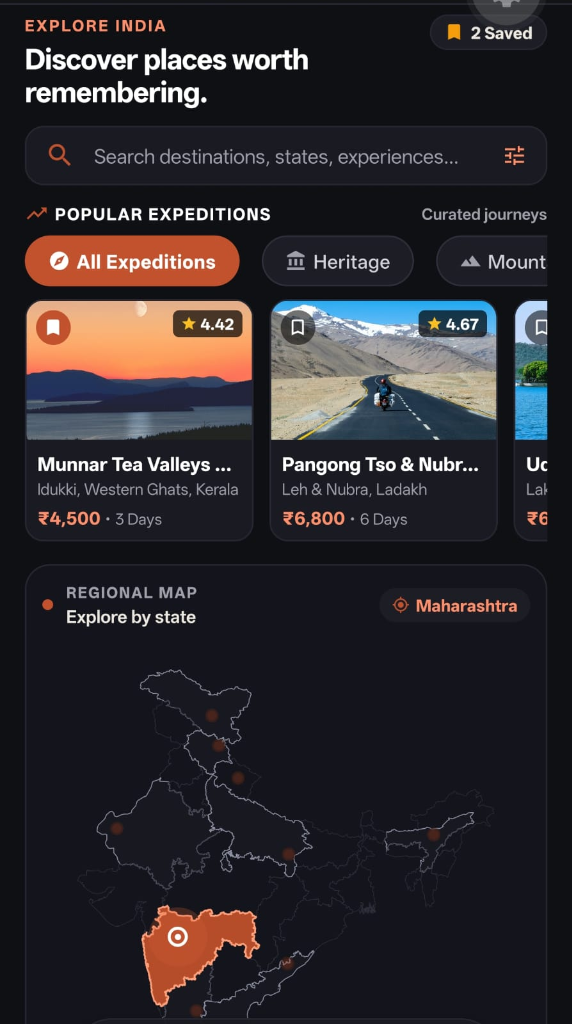
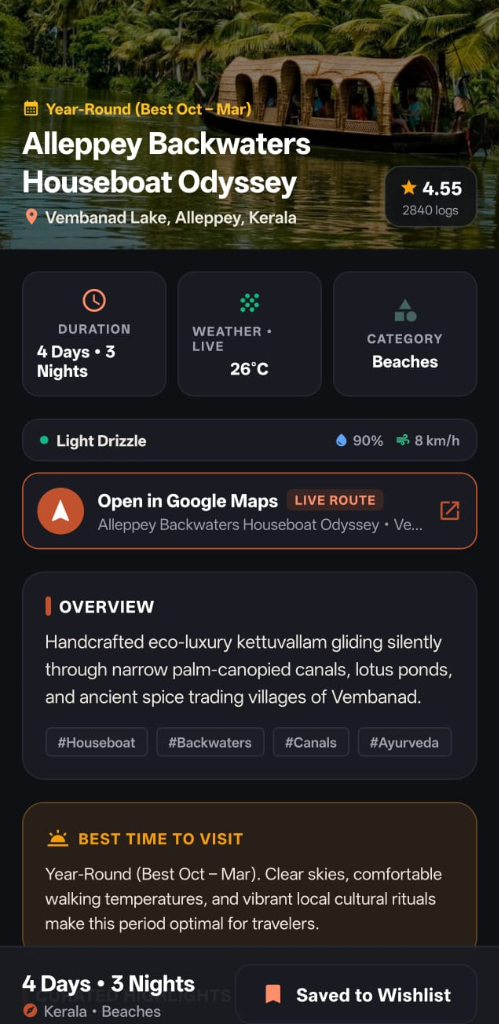
docs: update README with authentic app screenshots, setup instructions, and feature specifications

diff --git a/README.md b/README.md
@@ -1,67 +1,86 @@
 # TrailVista • India Journey Explorer
 
-> **Boutique Travel Expedition Planner & Cultural Field Journal**  
-> Built with React Native (Expo SDK 57), TypeScript, and a modern editorial design inspired by Indian heritage and geography.
+> **Curated Travel Expedition Planner & Cultural Field Journal**  
+> Built with **React Native (Expo SDK 57)**, **TypeScript**, and a contemporary dark-mode editorial aesthetic honoring the geography, heritage, and diverse cultures of India.
 
-[![Download Android APK](https://img.shields.io/badge/Download-Android%20APK%20(v1.0.1)-C2512D?style=for-the-badge&logo=android&logoColor=white)](https://github.com/undefinedtrail/trailvista-travel-explorer/releases/latest/download/TrailVista.apk)
+[![Download Android APK](https://img.shields.io/badge/Download-Android%20APK%20(v1.0.1)-E05A47?style=for-the-badge&logo=android&logoColor=white)](https://github.com/undefinedtrail/trailvista-travel-explorer/releases/latest/download/TrailVista.apk)
 [![GitHub Release](https://img.shields.io/github/v/release/undefinedtrail/trailvista-travel-explorer?style=for-the-badge&color=2EA44F)](https://github.com/undefinedtrail/trailvista-travel-explorer/releases/latest)
+[![Expo SDK 57](https://img.shields.io/badge/Expo-SDK%2057-000020?style=for-the-badge&logo=expo&logoColor=white)](https://expo.dev/)
+[![TypeScript](https://img.shields.io/badge/TypeScript-5.9-3178C6?style=for-the-badge&logo=typescript&logoColor=white)](https://www.typescriptlang.org/)
 
 ---
 
 ### 📲 Instant Standalone Installation (No Dev Server Needed!)
-You can install **TrailVista** directly onto your Android device without running any local dev servers or Expo Go:
+Install **TrailVista** directly on any Android device without configuring Node.js, Metro bundler, or Expo Go:
 - 🚀 **Direct APK Link**: [**Download TrailVista.apk (v1.0.1)**](https://github.com/undefinedtrail/trailvista-travel-explorer/releases/latest/download/TrailVista.apk)
 - 📦 **Releases Page**: [**View GitHub Releases**](https://github.com/undefinedtrail/trailvista-travel-explorer/releases/latest)
 
-> **Installation Note**: Tap the downloaded file and select **"Install"** (enable *"Install unknown apps"* in your Android browser settings if prompted).
+> **Quick Install Instructions**:
+> 1. Download `TrailVista.apk` using your phone's browser.
+> 2. Tap the downloaded file and select **"Install"** (enable *"Install unknown apps"* if prompted).
+> 3. Launch TrailVista—the full app, images, and itineraries run completely standalone and offline-ready!
 
 ---
 
 ## 🧭 Project Overview
 
-**TrailVista** is a mobile application designed for travelers who appreciate thoughtful, immersive cultural expeditions across India. Rather than presenting generic travel lists, TrailVista treats each destination as a curated journey—from cobalt glacial lakes in Ladakh (14,000 ft) to the quiet, palm-fringed backwater lagoons of Kerala, the stone monoliths of Ellora, and the Nizami citadels of Telangana.
+**TrailVista** is a modern mobile travel exploration platform crafted for travelers who seek authentic, culturally deep, and geographically rich expeditions across India. Rather than presenting generic commercial booking lists, TrailVista approaches travel as a thoughtful field journal:
 
-The application blends a contemplative dark-mode visual palette with real-world travel planning utilities: an accurate interactive regional vector SVG map, a dynamic multi-criteria travel matcher, day-by-day itineraries with full morning/afternoon/evening schedules, live weather telemetry, and seamless Google Maps routing.
+* **Geographically Grounded**: Features a custom-rendered, geographically accurate interactive vector SVG map of India spanning the high passes of Ladakh to the tranquil backwaters of Kerala and the coral reefs of the Andaman Islands.
+* **Curated Expeditions**: Covers 17 handcrafted journeys across 13 states with day-by-day schedules, morning/afternoon/evening itineraries, local etiquette notes, and authentic high-resolution photography.
+* **Intelligent Discovery**: Includes a dynamic **Smart Destination Matcher** that ranks journeys in real time according to travel style, pace, and trip duration, alongside a one-tap **"Surprise Me"** random expedition generator.
+* **Real-World Utility**: Direct one-tap **Google Maps navigation**, live **weather telemetry** (powered by Open-Meteo), and an offline-persisted **Wishlist** for seamless expedition bookmarking.
 
 ---
 
 ## 📱 Screenshots
 
-| Interactive Regional Map | Explore & Curated Expeditions |
+| 1. Explore & Interactive Map | 2. Search & "Surprise Me" |
 | :---: | :---: |
-| ![Interactive Regional Map](assets/screenshots/map_explorer.png) | ![Explore & Curated Expeditions](assets/screenshots/explore_home.png) |
+| <img src="assets/screenshots/explore.png" width="300" alt="Explore Screen" /> | <img src="assets/screenshots/search.png" width="300" alt="Search & Surprise Me" /> |
+| *Interactive Pan-India SVG Vector Map with state telemetry HUD and curated expedition feed* | *Live search with category filters, popular expeditions, and one-tap Surprise Me generator* |
 
-| Smart Search & "Surprise Me" | Expedition Dossier & Details |
+| 3. Smart Destination Matcher | 4. Saved Wishlist |
 | :---: | :---: |
-| ![Smart Search & Surprise Me](assets/screenshots/search_surprise.png) | ![Destination Details](assets/screenshots/destination_details.png) |
+| <img src="assets/screenshots/smart_matcher.png" width="300" alt="Smart Matcher" /> | <img src="assets/screenshots/wishlist.png" width="300" alt="Saved Journeys Wishlist" /> |
+| *"Find My Trip" dynamic multi-criteria engine with real-time percentage compatibility scoring* | *Offline-persisted saved journeys organized by travel category with instant removal* |
+
+<div align="center">
+
+### 5. Expedition Dossier & Navigation
+<img src="assets/screenshots/destination_details.png" width="320" alt="Destination Details Screen" />
+
+*Full destination dossier featuring live weather telemetry, direct Google Maps live routing, best season advice, and curated attractions*
+
+</div>
 
 ---
 
 ## ✨ Features
 
 ### 1. 🗺 Geographically Accurate Interactive SVG Regional Map
-* **Precise Vector SVG Map**: Pure vector state boundaries accurately representing all Indian states and union territories.
-* **13 Available Interactive Regions**: Includes Kerala, Telangana, Andhra Pradesh, Tamil Nadu, Karnataka, Maharashtra, Rajasthan, Ladakh, Himachal Pradesh, Uttar Pradesh, Assam, Uttarakhand, and the Andaman & Nicobar Islands.
-* **Interactive State Selection**: Tapping any available state fills its authentic geographic SVG boundary with an orange accent (`#E05A47`) while unavailable states remain subtle and crisp.
-* **Regional Telemetry HUD**: Selecting any region instantly surfaces seasonal weather telemetry, best visiting months, local highlights, and filters the expedition feed.
-* **Instant Reset View**: One-tap "All States" button returns to pan-India view with a smooth transition.
+* **Pure Vector SVG Map**: Handcrafted pan-India vector cartography representing state and union territory boundaries with authentic geographic fidelity.
+* **13 Interactive Regions**: Full support for Kerala, Telangana, Andhra Pradesh, Tamil Nadu, Karnataka, Maharashtra, Rajasthan, Ladakh, Himachal Pradesh, Uttar Pradesh, Assam, Uttarakhand, and Andaman & Nicobar Islands.
+* **Dynamic Highlight States**: Tapping any available region fills the state with a warm terracotta accent (`#E05A47`), while unavailable states display crisp, subtle boundary outlines.
+* **Regional Telemetry HUD**: Selecting a state surfaces its live regional weather telemetry, peak season recommendation, and automatically filters the expedition feed.
+* **Instant Reset View**: One-tap "All States" button smoothly transitions back to the complete pan-India overview.
 
 ### 2. 🎯 Smart Destination Matcher ("Find My Trip")
-* **Interactive Preferences**:
+* **Interactive Traveler Criteria**:
   * **Travel Style**: Mountains, Beach, Heritage, Adventure, Nature, Culture
   * **Travel Pace**: Relaxed (Scenic & Serene), Curated (Balanced Highlights), Immersive (Trails & Expeditions)
   * **Duration**: 1–2 days, 3–4 days, 5+ days
-* **Dynamic Ranking Engine**: Calculates multi-weighted compatibility scores (e.g., *"Munnar — 96% Match"*, *"Pangong Tso — 94% Match"*) based on category correlation, tag semantics, exploration pace alignment, duration compatibility, and user rating.
-* **Instant Navigation**: Tapping any ranked match card opens its comprehensive Details screen.
+* **Dynamic Ranking Engine**: Calculates multi-weighted compatibility scores (e.g., *"Munnar — 94% Match"*, *"Pangong Tso — 92% Match"*) based on category correlation, tag semantics, exploration pace alignment, and duration compatibility.
+* **Instant Exploration**: Tap any ranked destination card to jump straight into its complete day-by-day expedition dossier.
 
-### 3. 🎲 "Surprise Me" Itinerary Discovery
-* **One-Tap Serendipity**: In the Search tab, tap the **"Surprise Me"** button to randomly select a curated expedition across India with a smooth haptic feel.
-* **Instant Deep Linking**: Directly transitions the traveler to the full expedition dossier of the selected destination.
+### 3. 🎲 "Surprise Me" Serendipitous Trip Discovery
+* **One-Tap Serendipity**: In the Search tab, tap the prominent **"Surprise Me 🎲 Random Trip"** banner to discover an unexpected curated expedition across India.
+* **Instant Deep Linking**: Smoothly navigates the traveler straight to the selected destination dossier.
 
-### 4. 📍 Seamless Google Maps Navigation
-* **Prominent Route Card**: Placed directly below the destination's Quick Facts on the Details screen.
-* **Direct Point-to-Point Routing**: Opens destination coordinates and landmarks directly in Google Maps via React Native `Linking.openURL` without requiring heavyweight SDKs or billing keys.
-* **Attraction Directions**: Every curated sight card contains a dedicated "Maps" link for point-to-point navigation.
+### 4. 📍 Direct Google Maps Navigation
+* **Live Route Button**: Prominently displayed right under the destination's Quick Facts.
+* **Point-to-Point Routing**: Opens real geographic coordinates and landmarks in Google Maps via native `Linking.openURL`—no billing keys or heavyweight SDK overhead.
+* **Attraction Directions**: Every curated sight card contains a dedicated "Maps" link for point-to-point navigation to specific temples, fortresses, and trails.
 
 ### 5. ⛅ Live Weather Telemetry with Graceful Fallback
 * **Real-Time Data**: Queries real-world temperatures, WMO weather condition codes, relative humidity, and wind speeds via Open-Meteo.
@@ -81,36 +100,39 @@ The application blends a contemplative dark-mode visual palette with real-world 
   * **Uttarakhand**: Grade IV white-water rafting in Rishikesh Ganga Gorge.
   * **Andaman**: Radhanagar Beach white sands and turquoise waters.
 
-### 7. 🌓 Futuristic Theme Toggle & Edge-Swipe Navigation
-* **Futuristic Circular Sun/Moon Toggle**: Smooth toggle between obsidian dark theme and warm parchment light theme.
+### 7. 🌓 Modern UI & Polish
+* **Futuristic Theme Toggle**: Smooth circular sun/moon toggle to switch between obsidian dark theme and warm parchment light theme.
 * **System Edge-Swipe Back Gesture**: Native swipe-to-go-back gesture enabled throughout all screen stacks.
-* **Wishlist Bookmarker**: Save dream expeditions locally with instant sync across tabs.
+* **Custom App Icon & Splash Screen**: Elegant branding with custom splash screen and vector icons.
 
 ---
 
 ## 🛠 Tech Stack & Architecture
 
-* **Framework**: React Native 0.83 / Expo SDK 57 (New Architecture enabled)
-* **Language**: TypeScript 5.9+ (Strict Mode)
-* **Vector Graphics**: `react-native-svg` (Clean path geometry & viewboxes)
-* **Navigation**: React Navigation (Native Stack with fluid gesture handlers)
-* **Icons**: `@expo/vector-icons` (MaterialIcons & Ionicons)
-* **State Management**: React Hooks & Context API (`ThemeContext`, `WishlistContext`)
-* **Styling**: Modern StyleSheet architecture with dynamic dark/light color tokens
+| Layer | Technologies |
+| :--- | :--- |
+| **Framework** | [React Native 0.83](https://reactnative.dev/) with [Expo SDK 57](https://expo.dev/) (New Architecture enabled) |
+| **Language** | [TypeScript 5.9](https://www.typescriptlang.org/) (Strict Mode) |
+| **Vector Graphics** | [`react-native-svg`](https://github.com/software-mansion/react-native-svg) (Pure SVG vector geometry) |
+| **Navigation** | [React Navigation 7](https://reactnavigation.org/) (Native Stack & Bottom Tabs with native gestures) |
+| **Icons & Typography** | [`@expo/vector-icons`](https://icons.expo.fyi/) (MaterialIcons, Ionicons, Feather) |
+| **State Management** | React Context API (`ThemeContext`, `WishlistContext`) with local persistence |
+| **Network & APIs** | Open-Meteo REST API, React Native `Linking`, standard Fetch API |
+| **CI / CD** | GitHub Actions (automated compilation of standalone Android Release APK with Hermes) |
 
 ---
 
-## 🚀 Getting Started & Setup
+## 🚀 Getting Started & Setup Instructions
 
 ### Prerequisites
-* **Node.js**: v18.x or v20.x+ installed
+* **Node.js**: v18.x or v20.x+ installed ([Download Node.js](https://nodejs.org/))
 * **Package Manager**: `npm` or `bun`
-* **Mobile Testing**: Expo Go app on iOS or Android (or Xcode / Android Studio simulator)
+* **Mobile Testing**: [Expo Go app](https://expo.dev/go) on iOS or Android, or an Android Studio / Xcode emulator
 
 ### 1. Clone the Repository
 ```bash
-git clone https://github.com/undefinedtrail/travel-explorer.git
-cd travel-explorer
+git clone https://github.com/undefinedtrail/trailvista-travel-explorer.git
+cd trailvista-travel-explorer
 ```
 
 ### 2. Install Dependencies
@@ -123,56 +145,75 @@ npm install
 npx expo start
 ```
 
-### 4. Run on Device
-* **Android**: Press `a` in the terminal or scan the QR code with the Expo Go app.
-* **iOS**: Press `i` in the terminal (macOS required) or scan the QR code with the Camera app.
-* **Web**: Press `w` in the terminal to view in browser.
+### 4. Run on Your Device
+* **Android Device / Emulator**: Press `a` in the terminal or scan the displayed QR code with the Expo Go app.
+* **iOS Simulator / Device**: Press `i` in the terminal (macOS required) or scan the QR code with your iOS Camera app.
+* **Web Browser**: Press `w` in the terminal to explore the web build.
 
-### 5. Typecheck & Verification
+### 5. Typecheck & Code Verification
 ```bash
 npx tsc --noEmit
 ```
+
+### 6. Building the Standalone APK Locally (Optional)
+If you have the Android SDK and Java 17 configured:
+```bash
+npx expo prebuild --platform android
+cd android
+./gradlew assembleRelease
+```
+The compiled APK will be generated at `android/app/build/outputs/apk/release/app-release.apk`.
 
 ---
 
 ## 📂 Project Directory Structure
 
 ```
+trailvista-travel-explorer/
+├── .github/
+│   └── workflows/
+│       └── build-apk.yml          # GitHub Actions workflow for standalone APK release
 ├── assets/
-│   ├── icon.png
-│   ├── splash-icon.png
-│   ├── yatra_logo.png
-│   └── screenshots/              # App UI screenshots
+│   ├── icon.png                   # App launcher icon
+│   ├── splash-icon.png            # Launch splash screen graphic
+│   ├── yatra_logo.png             # TrailVista flame emblem
+│   └── screenshots/               # App UI screenshots
+│       ├── explore.png            # Explore tab with interactive SVG map
+│       ├── search.png             # Search tab with "Surprise Me"
+│       ├── smart_matcher.png      # "Find My Trip" criteria engine
+│       ├── wishlist.png           # Saved journeys wishlist
+│       └── destination_details.png# Full destination dossier & map routing
 ├── src/
-│   ├── components/               # UI components (DestinationCard, Header, etc.)
+│   ├── components/                # Reusable UI components (DestinationCard, Header, etc.)
 │   ├── constants/
-│   │   ├── colors.ts             # Theme tokens (Dark & Light palettes)
-│   │   └── mockData.ts           # Curated expeditions, states, and telemetry data
+│   │   ├── colors.ts              # Obsidian Dark & Warm Light color palettes
+│   │   └── mockData.ts            # Curated expeditions, states, itineraries & coordinates
 │   ├── context/
-│   │   ├── ThemeContext.tsx      # Dark/Light mode theme provider
-│   │   └── WishlistContext.tsx   # Local expedition bookmark state
+│   │   ├── ThemeContext.tsx       # Dark/Light mode theme provider
+│   │   └── WishlistContext.tsx    # Saved expedition state & local storage
 │   ├── models/
-│   │   └── Destination.ts        # TypeScript data interfaces & types
+│   │   └── Destination.ts         # TypeScript data interfaces & types
 │   ├── navigation/
-│   │   └── AppNavigator.tsx      # Bottom tabs & NativeStack navigation
+│   │   └── AppNavigator.tsx       # Bottom tabs & NativeStack navigation
 │   ├── screens/
-│   │   ├── HomeScreen.tsx        # Regional map & popular expeditions feed
-│   │   ├── SearchScreen.tsx      # Filter, search & "Surprise Me" discovery
-│   │   ├── SmartMatcherScreen.tsx# "Find My Trip" dynamic multi-criteria engine
-│   │   ├── WishlistScreen.tsx    # Saved expeditions & quick access
-│   │   └── DetailsScreen.tsx     # Full expedition dossier, weather & Google Maps
+│   │   ├── HomeScreen.tsx         # Pan-India map & curated expeditions feed
+│   │   ├── SearchScreen.tsx       # Search, filter chips & "Surprise Me" generator
+│   │   ├── SmartMatcherScreen.tsx # "Find My Trip" multi-weighted matching engine
+│   │   ├── WishlistScreen.tsx     # Saved journeys & quick access
+│   │   └── DetailsScreen.tsx      # Comprehensive itinerary, live weather & Google Maps
 │   ├── services/
-│   │   └── weatherService.ts     # Open-Meteo & OpenWeather integration
+│   │   └── weatherService.ts      # Open-Meteo & OpenWeather integration with fallback
 │   └── widgets/
-│       ├── IndiaMapExplorer.tsx  # Interactive SVG India Map widget
-│       └── StateTelemetryCard.tsx# Regional weather & season telemetry card
-├── App.tsx                       # Root application entry point
-├── app.json                      # Expo configuration & permissions
-├── tsconfig.json                 # TypeScript compiler options
-└── package.json                  # Dependencies & project scripts
+│       ├── IndiaMapExplorer.tsx   # Custom SVG interactive India map widget
+│       └── StateTelemetryCard.tsx # Regional weather & season telemetry card
+├── App.tsx                        # Root application entry point
+├── app.json                       # Expo configuration & native permissions
+├── tsconfig.json                  # TypeScript compiler options
+└── package.json                   # Project scripts and dependencies
 ```
 
 ---
 
 ## 📄 License
-This project is developed for educational and exploratory travel purposes. All rights reserved.
+
+This project is developed for educational, cultural, and exploratory travel purposes. All rights reserved.
